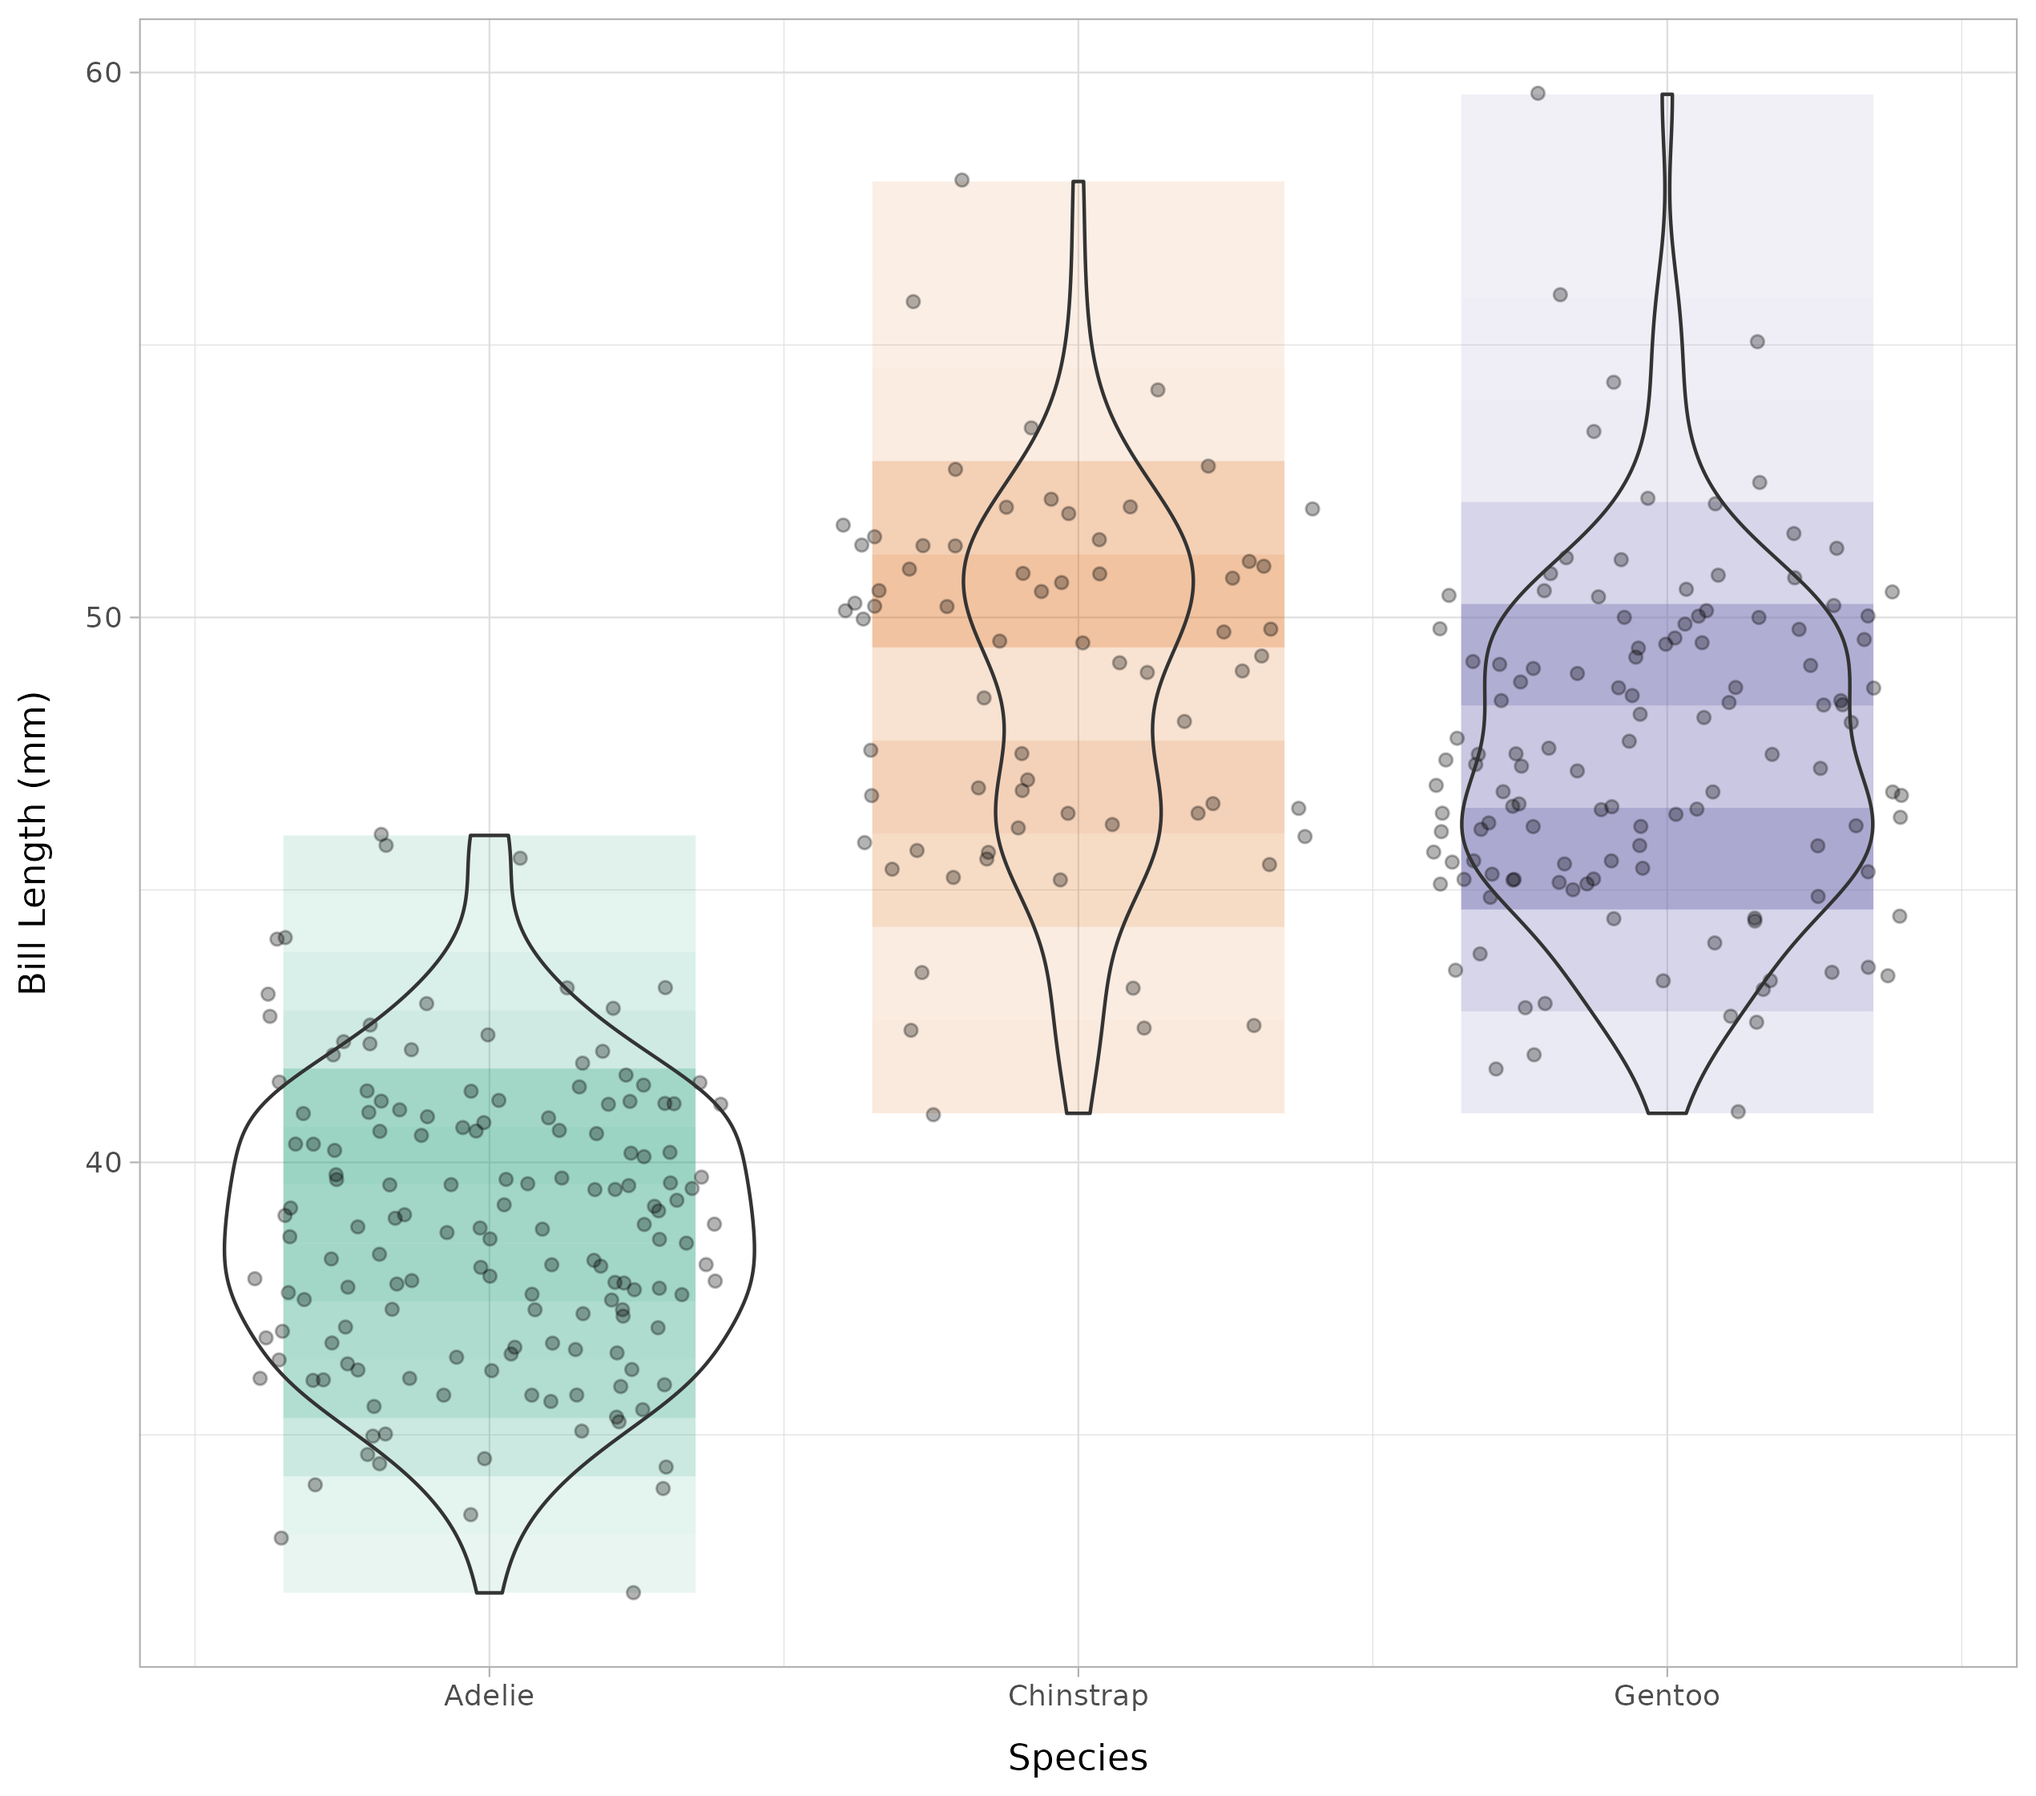
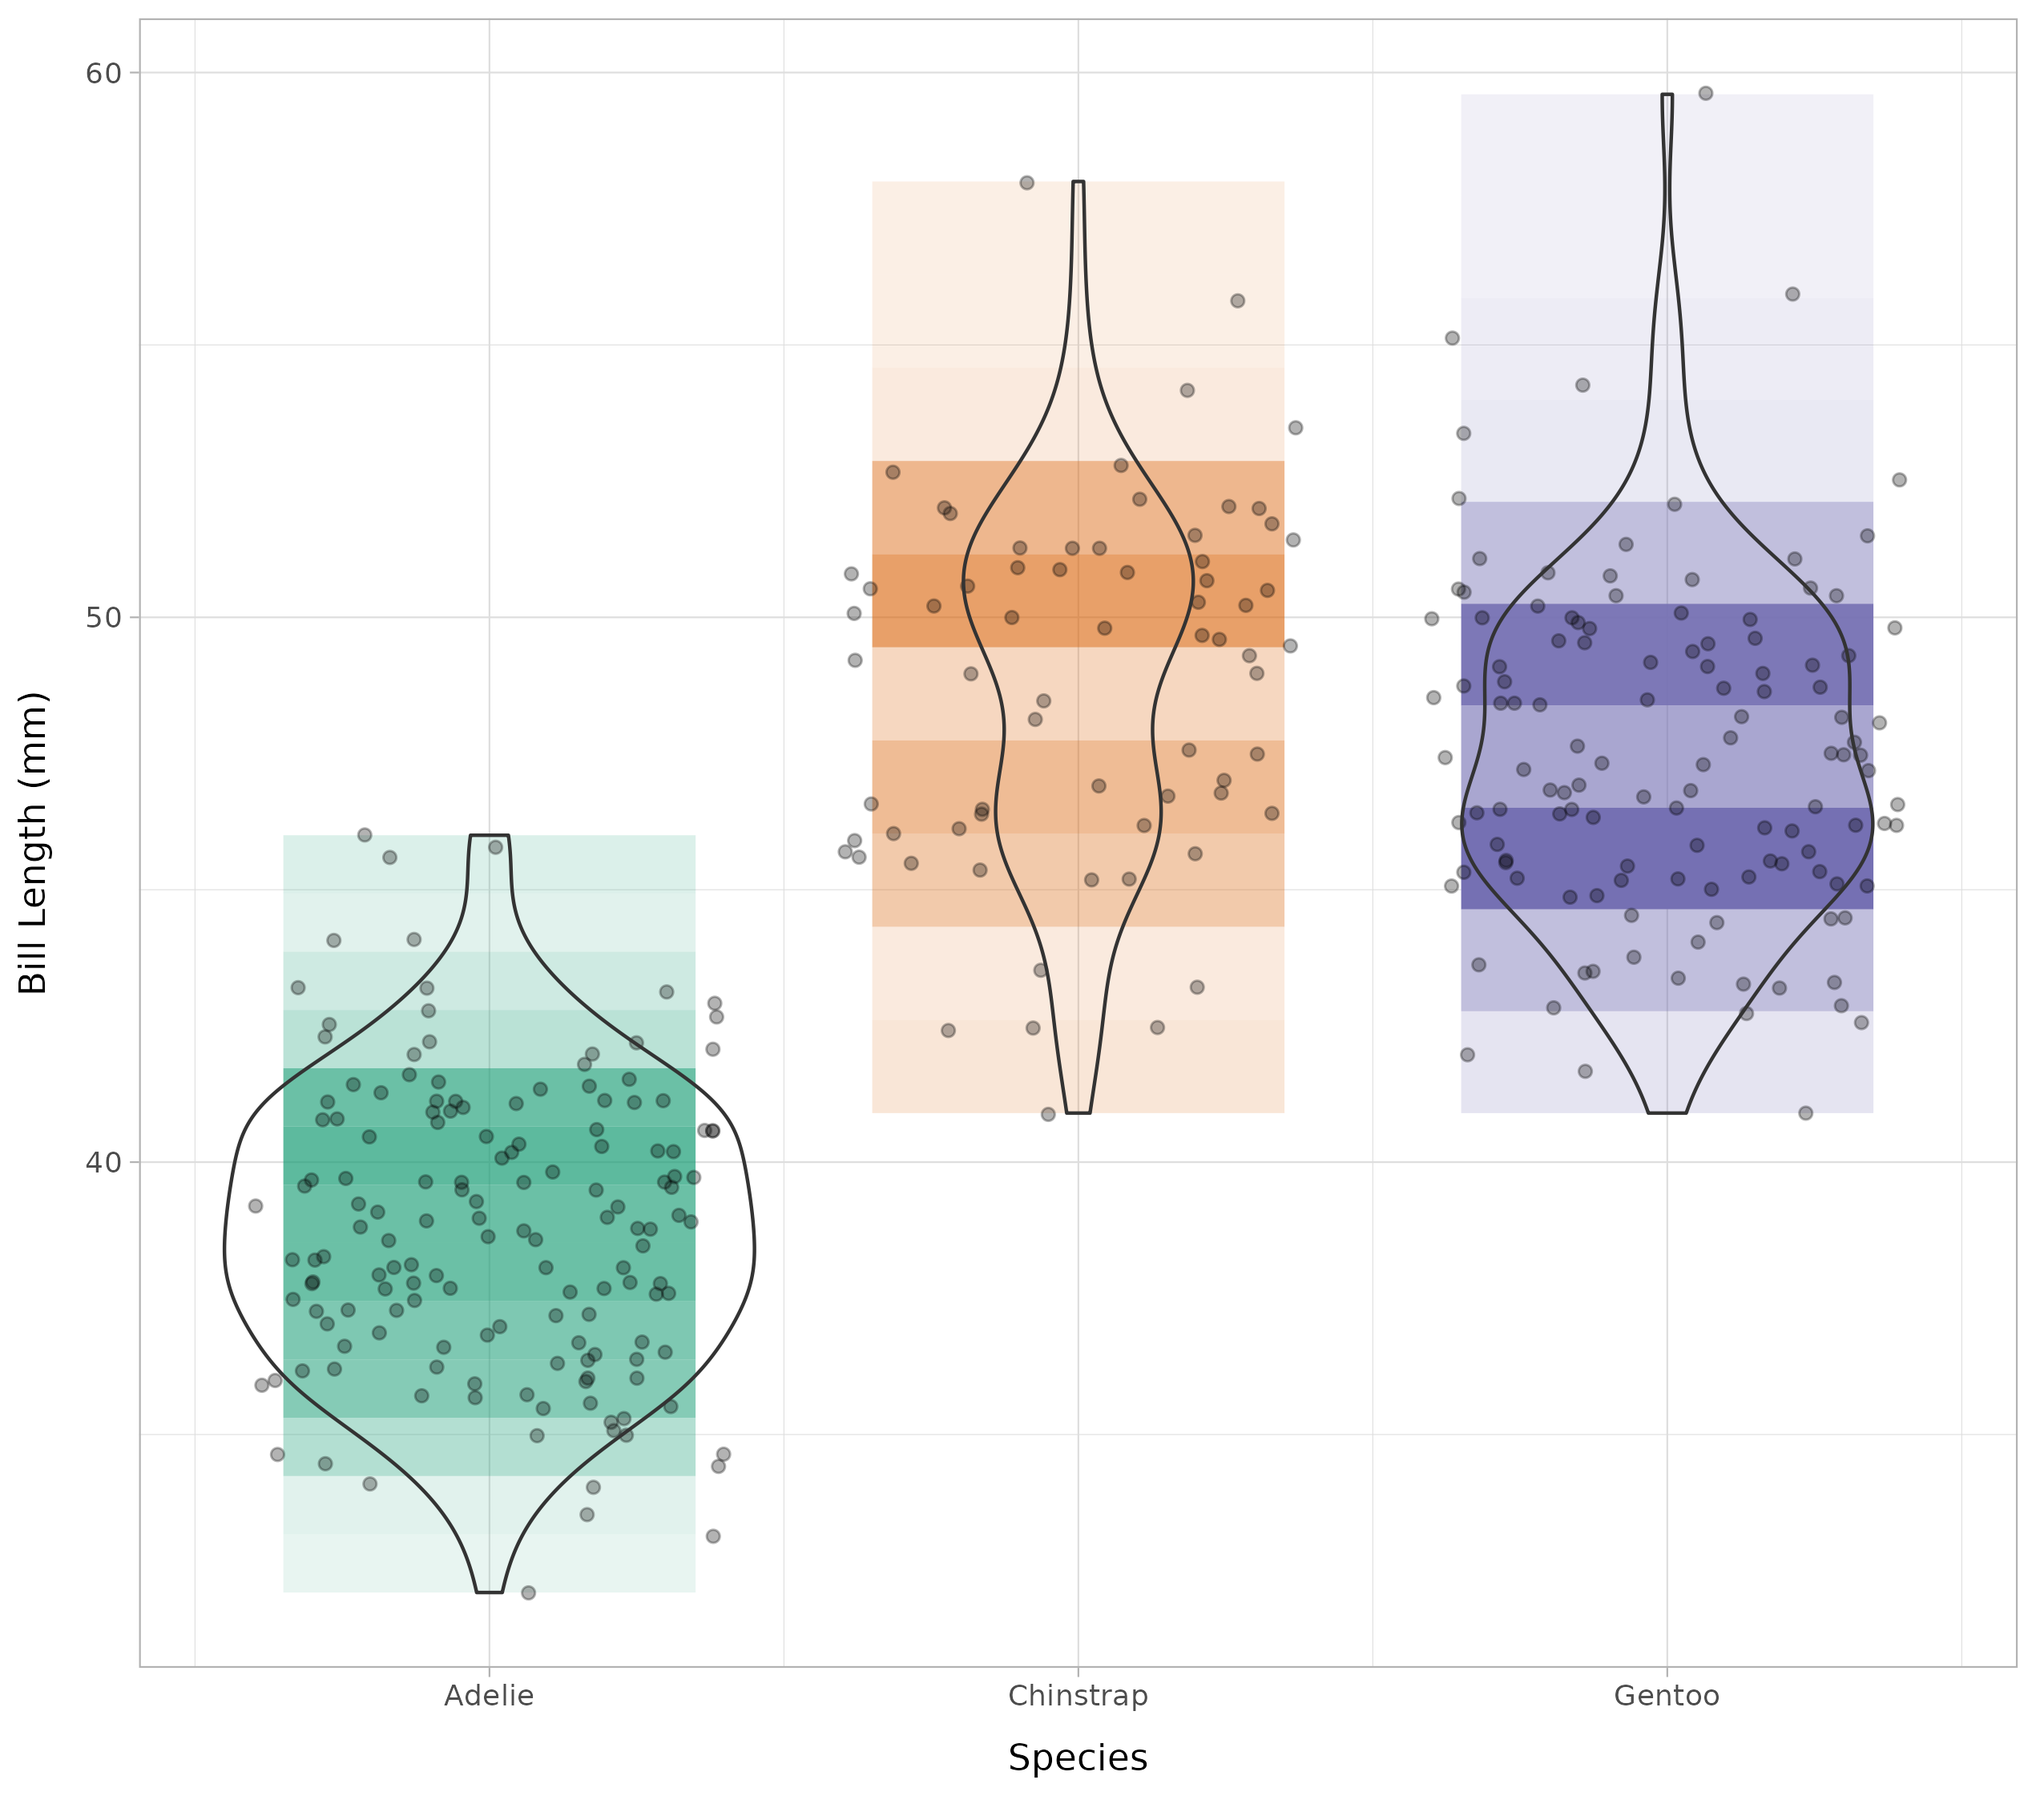
hk

diff --git a/README.md b/README.md
@@ -26,7 +26,7 @@ penguins %>%
   ggdist::stat_halfeye(adjust = .3, width = .3, .width = 0, justification = -.3,
                        point_colour = 'NA', slab_fill=NA, slab_colour='black',
                        slab_size=0.4) +
-  geom_boxplot(width = .15, outlier.shape = NA, fill=NA) +
+  geom_boxplot(width = .15, outlier.shape = NA, fill='white') +
   ggdist::stat_dots(
     side = "left",
     dotsize = .8,
@@ -45,24 +45,18 @@ Another just for fun …
 penguins %>%
   ggplot(aes(x = species, y = bill_length_mm, fill = species)) +
   stat_gradientinterval(aes(fill=stat(pdf)),position = "dodge", colour=NA, 
-                        width=0.8, slab_type='pdf', fill_type = "gradient") +
+                        width=0.6, slab_type='pdf', fill_type = "gradient") +
   scale_fill_gradientn(colours=viridisLite::mako(255))+
   theme_light()+
   labs(x='Species', y='Bill Length (mm)') +
   guides(fill="none", alpha='none')+
   theme(axis.title.y = element_text(margin = margin(t = 0, r = 10, b = 0, l = 0)),
         axis.title.x = element_text(margin = margin(t = 10, r = 0, b = 0, l = 0)))+
-  ggdist::stat_halfeye(adjust = .3, width = .3, .width = 0, justification = -.3,
+  ggdist::stat_halfeye(adjust = .5, width = .2, .width = 0, justification = -.1,
                        point_colour = 'NA', slab_fill=NA, slab_colour='black',
-                       slab_size=0.7, fill=NA) +
-  geom_boxplot(width = .15, outlier.shape = NA, fill=NA) +
-  ggdist::stat_dots(
-    side = "left",
-    dotsize = .8,
-    justification = 1.15,
-    binwidth = .3,
-    colour='black',
-    fill=NA) +
+                       slab_size=0.7, fill=NA, lwd=0.5) +
+  geom_boxplot(width = .15, outlier.shape = NA, fill=NA,
+               position = position_nudge(x = -0.1)) +
   coord_cartesian(xlim = c(1, NA), clip = "off")
 ```
 
